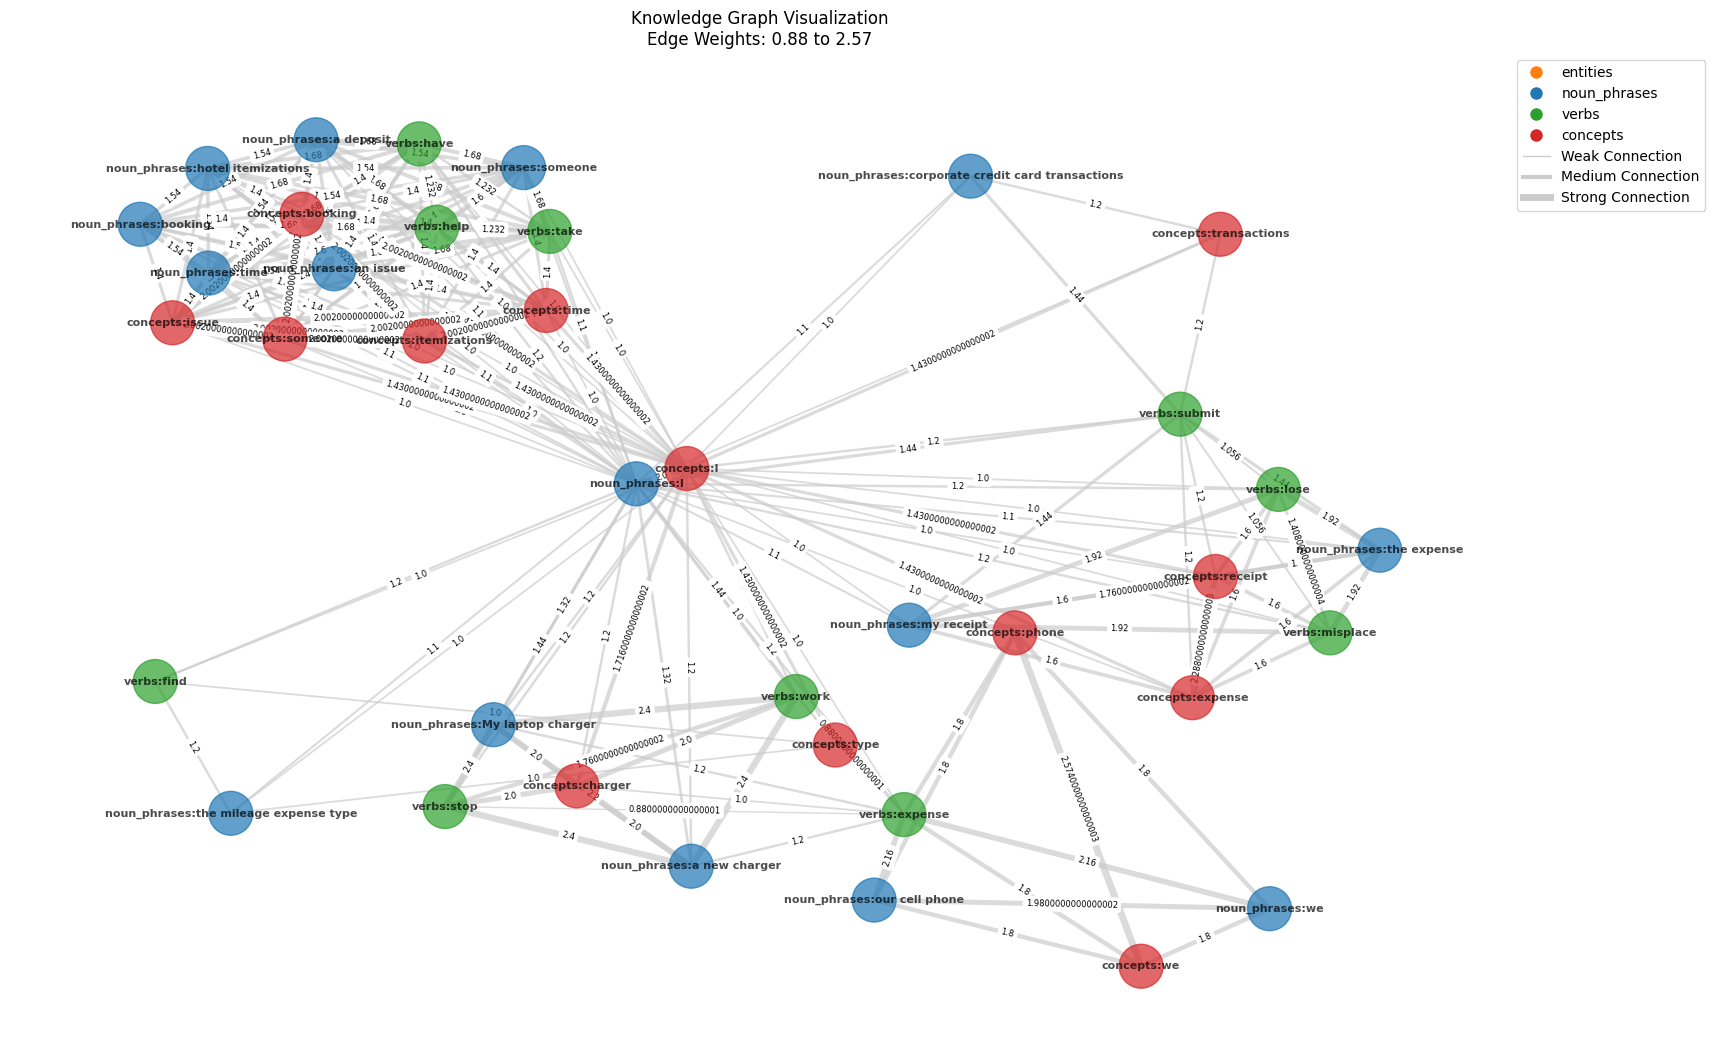
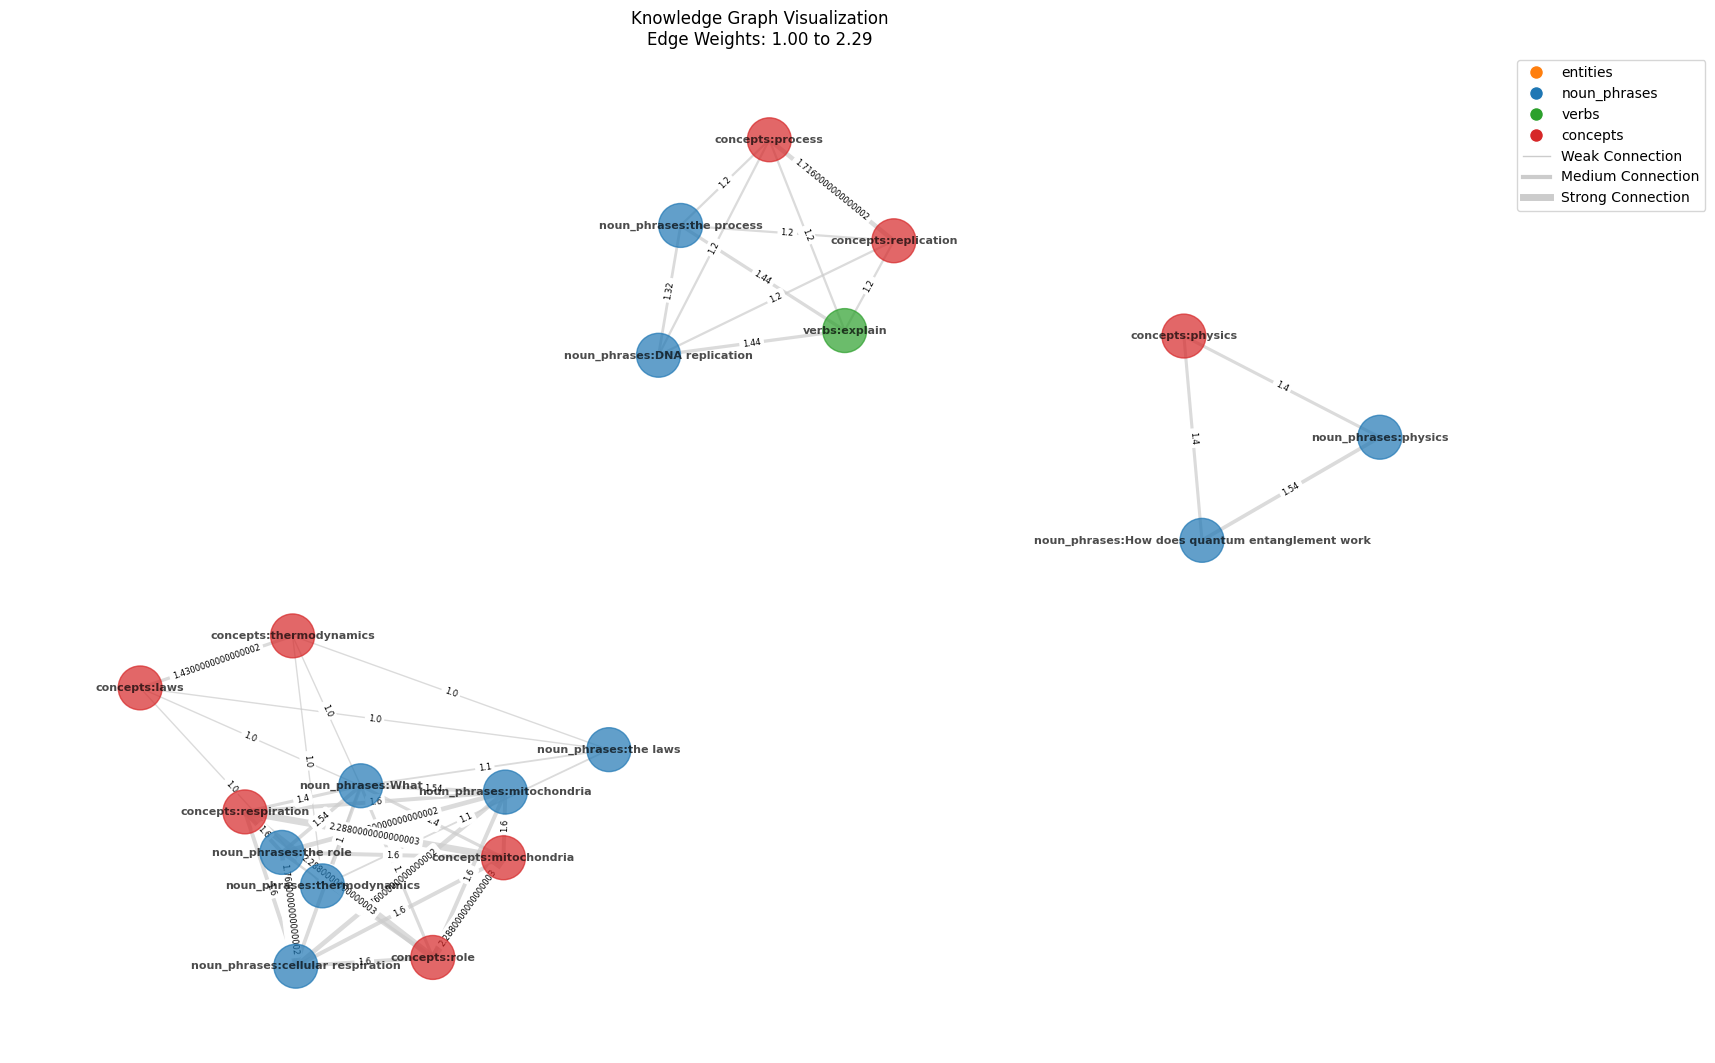
added error handling to the query generation

diff --git a/querygenerator/generator.py b/querygenerator/generator.py
@@ -93,16 +93,31 @@ Make sure the question is natural and the answer is comprehensive."""
     def _parse_response(self, response: str) -> Tuple[str, str]:
         """
         Parse generated response to extract question and answer
+        Returns tuple of (question, answer)
+        If answer is missing, returns a default message
         """
         parts = response.split('\n')
         question = ""
         answer = ""
         
+        # Look for question and answer in response
         for part in parts:
-            if part.startswith("Question: "):
+            if part.strip().startswith("Question: "):
                 question = part.replace("Question: ", "").strip()
-            elif part.startswith("Answer: "):
+            elif part.strip().startswith("Answer: "):
                 answer = part.replace("Answer: ", "").strip()
-                
+        
+        # Check if we have both parts
+        if not question:
+            question = "ERROR: No question generated"
+        if not answer:
+            answer = "Please try regenerating this response as no answer was provided."
+        
+        # Optional: Log missing parts for debugging
+        if not answer or not question:
+            print(f"Warning: Incomplete response received:")
+            print(f"Original response: {response}")
+            print(f"Parsed question: {question}")
+            print(f"Parsed answer: {answer}")
+        
         return question, answer
-

diff --git a/main.py b/main.py
@@ -84,7 +84,7 @@ business_queries = [
 '''
 EITHER execute queries individually like this commented out section
 '''
-for query, query_id in seed_queries:
+for query, query_id in scientific_queries:
     generator.add_seed_query(query, query_id)
 
 visualizer = GraphVisualizer(graph=generator.graph_builder.graph, domain_name="general")
